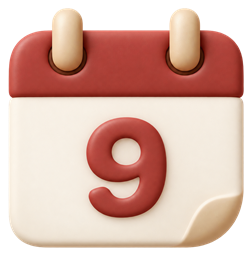
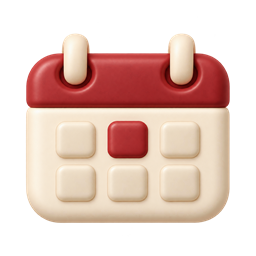
Refresh calendar day styling

diff --git a/app/globals.css b/app/globals.css
@@ -2524,11 +2524,12 @@ h1 > span {
   width: 70px;
   min-width: 70px;
   border-radius: var(--radius-lg);
+  background: #fff;
 }
 
 .upcoming-event.is-clan-memorial .date-block {
   border-color: #d6aa63;
-  background: #fff4de;
+  background: #fff;
 }
 
 .upcoming-event.is-clan-memorial > span:nth-child(2) > strong {
